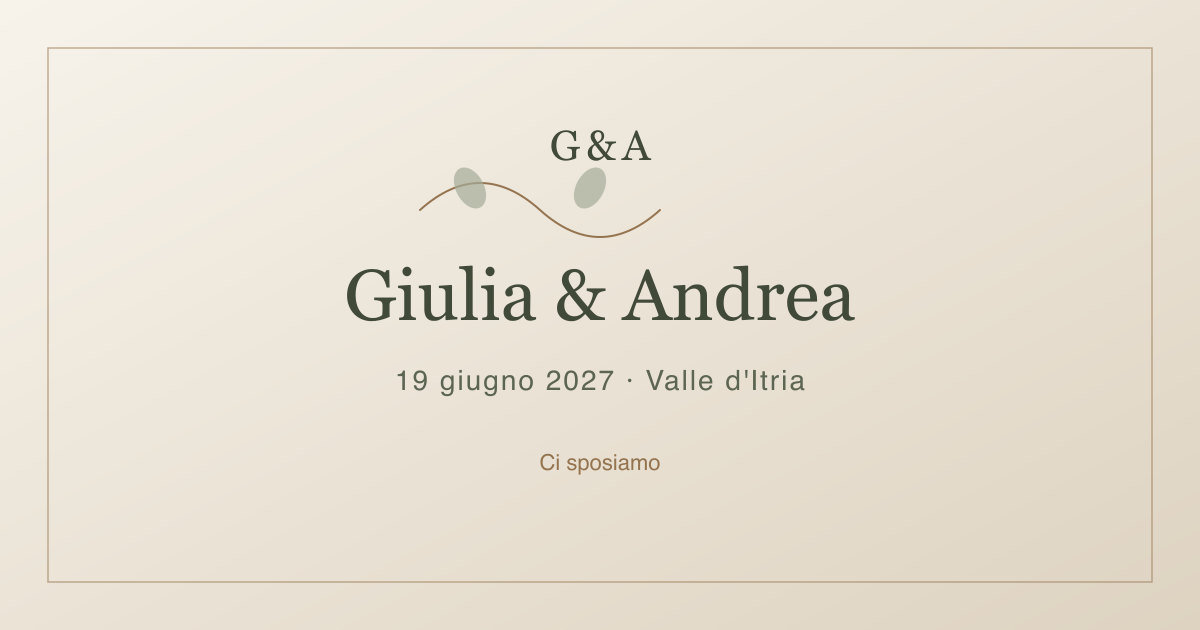
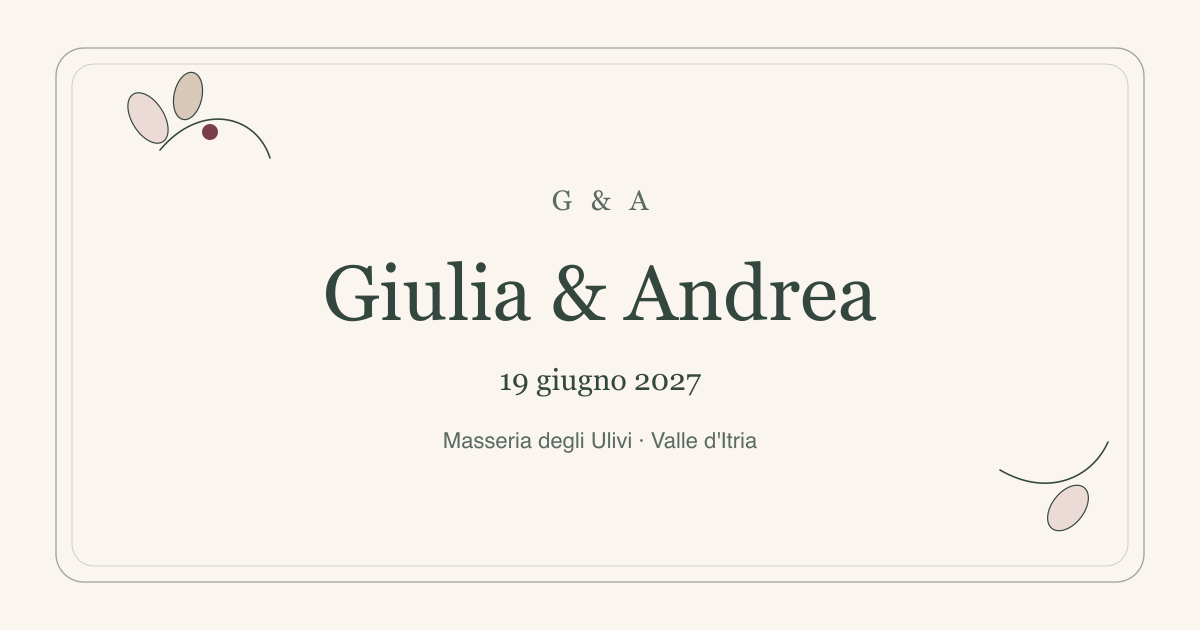
Polish botanical drawings and align generated share assets with the stationery palette.

diff --git a/app/components/illustrations/IlluBotanicalFrame.vue b/app/components/illustrations/IlluBotanicalFrame.vue
@@ -39,85 +39,60 @@
     <!-- Top-left bouquet -->
     <g transform="translate(18 22)">
       <path
-        d="M92 168C78 132 48 108 28 122C12 134 22 168 54 178"
+        d="M92 176C70 128 36 108 22 128C8 148 28 176 62 178"
         stroke="currentColor"
         stroke-width="1.1"
         stroke-linecap="round"
       />
       <path
-        d="M88 172C108 128 148 96 168 118C186 136 164 168 128 176"
+        d="M90 174C112 120 158 92 176 122C192 146 162 174 124 176"
         stroke="currentColor"
         stroke-width="1.1"
         stroke-linecap="round"
       />
-      <ellipse
-        cx="46"
-        cy="86"
-        rx="11"
-        ry="22"
-        transform="rotate(-38 46 86)"
+      <path
+        d="M38 118C28 86 18 62 32 48C46 62 48 88 38 118Z"
         fill="var(--color-blush)"
         stroke="currentColor"
         stroke-width="0.9"
       />
-      <ellipse
-        cx="68"
-        cy="64"
-        rx="10"
-        ry="20"
-        transform="rotate(-12 68 64)"
-        fill="var(--color-blush)"
-        stroke="currentColor"
-        stroke-width="0.9"
-      />
-      <ellipse
-        cx="96"
-        cy="52"
-        rx="9"
-        ry="18"
-        transform="rotate(18 96 52)"
+      <path
+        d="M58 108C52 72 48 46 68 36C84 52 76 84 58 108Z"
         fill="var(--color-sand)"
         stroke="currentColor"
         stroke-width="0.9"
       />
       <path
-        d="M128 70c8-18 28-26 40-14 10 10 4 28-12 34-18 8-32-2-28-20z"
+        d="M86 96C90 62 102 38 118 42C122 64 108 88 86 96Z"
+        fill="var(--color-blush)"
+        stroke="currentColor"
+        stroke-width="0.9"
+      />
+      <path
+        d="M132 86c12-22 36-26 46-8 8 14-2 30-20 34-16 4-28-6-26-26z"
         fill="var(--color-blush)"
         stroke="currentColor"
         stroke-width="0.95"
       />
       <path
-        d="M142 78c4-8 14-12 20-6"
+        d="M146 92c6-10 16-12 22-4"
         stroke="currentColor"
         stroke-width="0.7"
         stroke-linecap="round"
       />
       <circle
         cx="118"
-        cy="96"
-        r="7"
+        cy="108"
+        r="6"
         fill="var(--color-bordeaux)"
         opacity="0.85"
       />
-      <circle
-        cx="78"
-        cy="108"
-        r="4.5"
-        fill="var(--color-bordeaux)"
-        opacity="0.55"
-      />
       <path
-        d="M54 148c-18 8-28 28-18 38 12 12 32 2 36-16"
+        d="M70 148C52 164 38 186 54 196C74 206 90 180 70 148Z"
         fill="var(--color-sand)"
-        fill-opacity="0.45"
+        fill-opacity="0.55"
         stroke="currentColor"
         stroke-width="0.85"
-      />
-      <path
-        d="M40 44c-8-22-28-28-38-12"
-        stroke="currentColor"
-        stroke-width="0.9"
-        stroke-linecap="round"
       />
     </g>
 

diff --git a/app/components/illustrations/IlluMoment.vue b/app/components/illustrations/IlluMoment.vue
@@ -128,45 +128,38 @@ defineProps<{
 
     <g v-else>
       <path
-        d="M24 62C28 44 36 34 44 34C52 34 56 44 64 62"
+        d="M30 30v28M58 28v30"
         stroke="currentColor"
         stroke-width="1.2"
         stroke-linecap="round"
       />
       <circle
-        cx="32"
-        cy="36"
-        r="7"
+        cx="30"
+        cy="22"
+        r="6"
         fill="var(--color-blush)"
         stroke="currentColor"
         stroke-width="1"
       />
       <circle
-        cx="56"
-        cy="34"
-        r="7"
+        cx="58"
+        cy="20"
+        r="6"
         fill="var(--color-sand)"
         stroke="currentColor"
         stroke-width="1"
       />
       <path
-        d="M40 62c6-10 14-8 20 0"
+        d="M30 42c8 10 20 10 28 0"
         stroke="var(--color-bordeaux)"
         stroke-width="1.2"
         stroke-linecap="round"
       />
       <path
-        d="M64 22c8 2 12 10 8 16"
+        d="M24 58l6 10M36 58l-6 10M52 58l6 10M64 56l-6 12"
         stroke="currentColor"
-        stroke-width="1"
+        stroke-width="1.1"
         stroke-linecap="round"
-      />
-      <circle
-        cx="74"
-        cy="20"
-        r="3"
-        stroke="currentColor"
-        stroke-width="1"
       />
     </g>
   </svg>

diff --git a/app/assets/css/main.css b/app/assets/css/main.css
@@ -119,6 +119,10 @@ html:not(.js) .section-rsvp__form {
   display: none !important;
 }
 
+html.js noscript {
+  display: none !important;
+}
+
 @media (prefers-reduced-motion: no-preference) {
   .opening__card {
     animation: invite-rise 1.05s cubic-bezier(0.22, 1, 0.36, 1) both;
